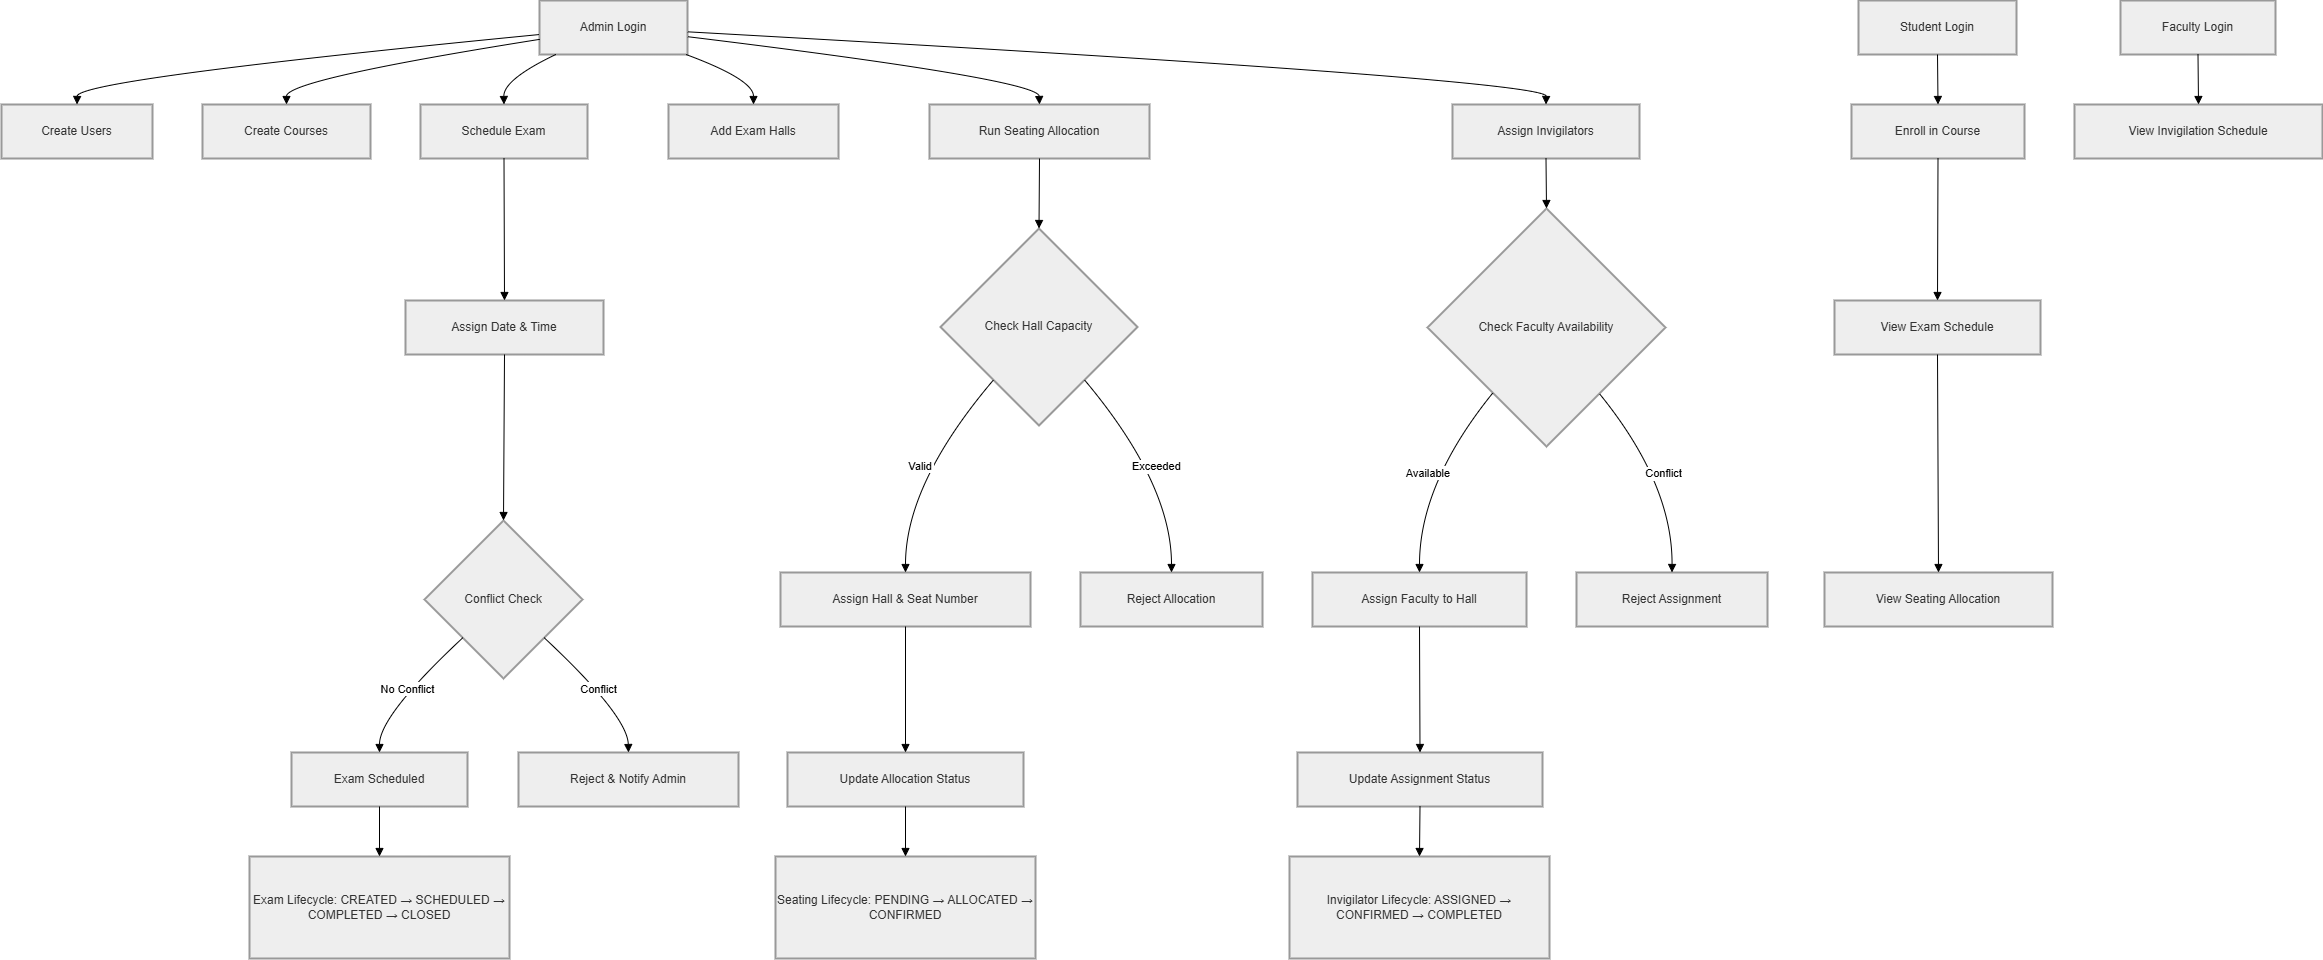
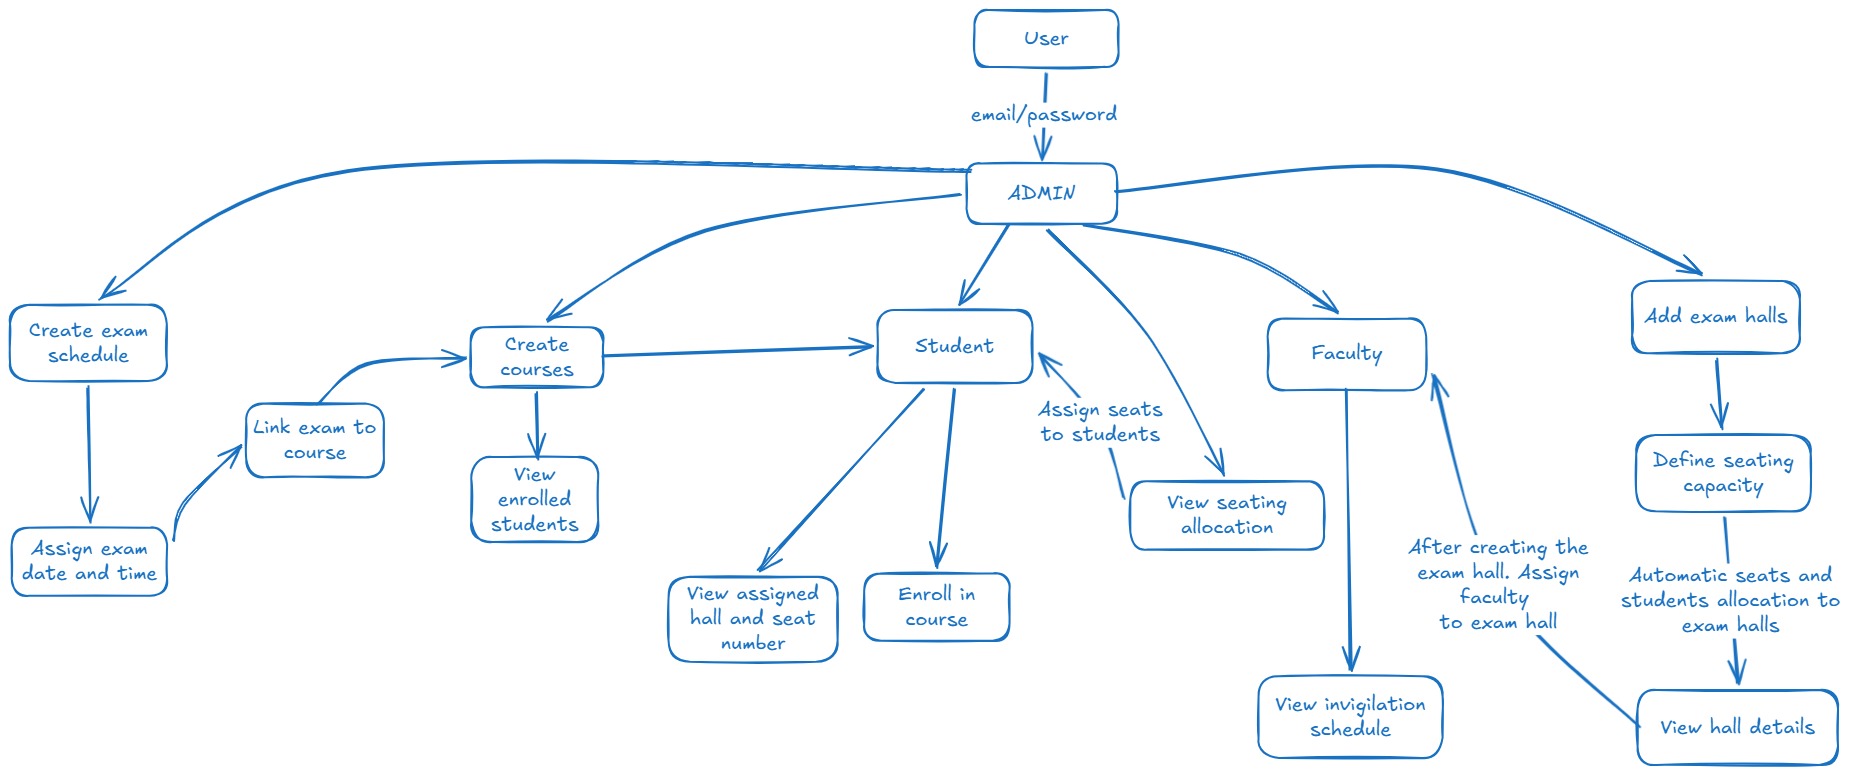
Updated Flowchart

diff --git a/README.md b/README.md
@@ -2,5 +2,5 @@
 ![alt text](images/Database%20Design.png)
 
 ---
-### System Flowchart
+### Flowchart
 ![alt text](images/Flowchart.png)
